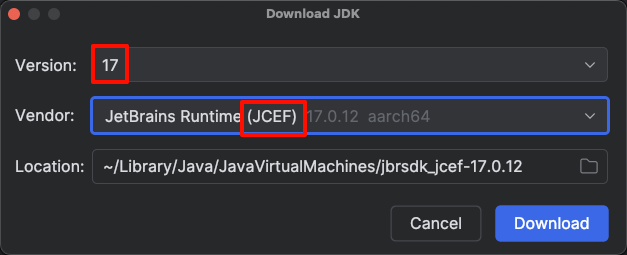
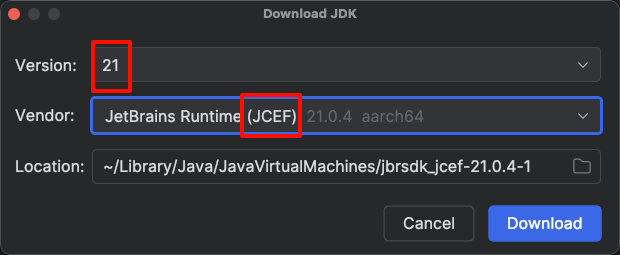
Update jbr in CONTRIBUTING.md

diff --git a/CONTRIBUTING.md b/CONTRIBUTING.md
@@ -73,10 +73,10 @@ git clone --recursive https://github.com/open-ani/ani.git
 
 由于 PC 端使用 [JCEF](https://github.com/jetbrains/jcef) (内置浏览器), JDK 必须使用精确的 JetBrains
 Runtime (with
-JCEF), 版本 17, 下文简称 JBR.
+JCEF), 版本 21, 下文简称 JBR.
 
 需要自行安装 JBR. 在 Android Studio 或 IntelliJ IDEA 中, 如下图所示, 可打开设置
-`Build, Execution, Deployment -> Build Tools -> Gradle`, 修改 Gradle JDK 配置为 JBR (JCEF) 17.
+`Build, Execution, Deployment -> Build Tools -> Gradle`, 修改 Gradle JDK 配置为 JBR (JCEF) 21.
 
 <img src=".readme/images/contributing/idea-settings-download-jdk.png" alt="download jbr" width="400"/>
 <img src=".readme/images/contributing/idea-settings-download-jdk-version.png" alt="choose version" width="200"/>
